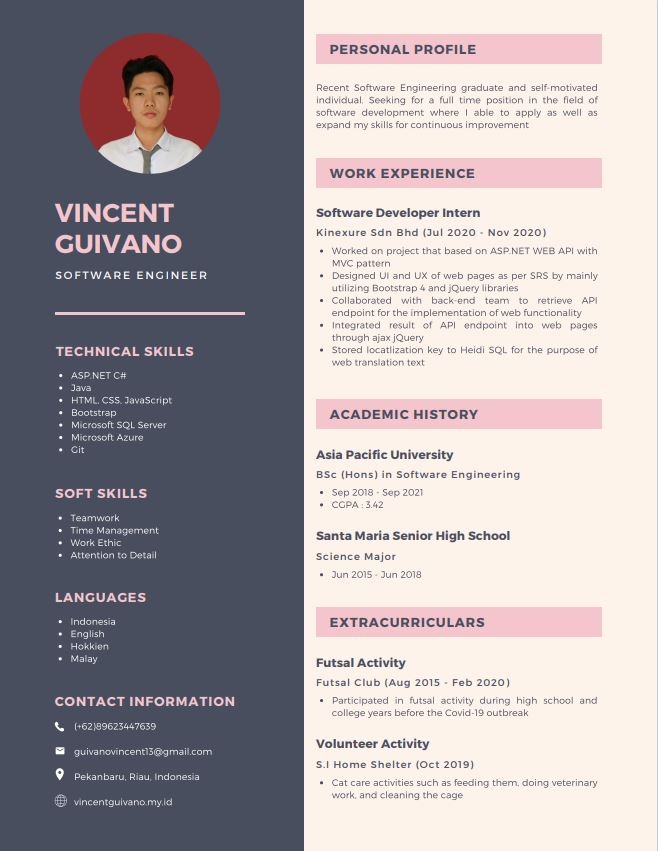
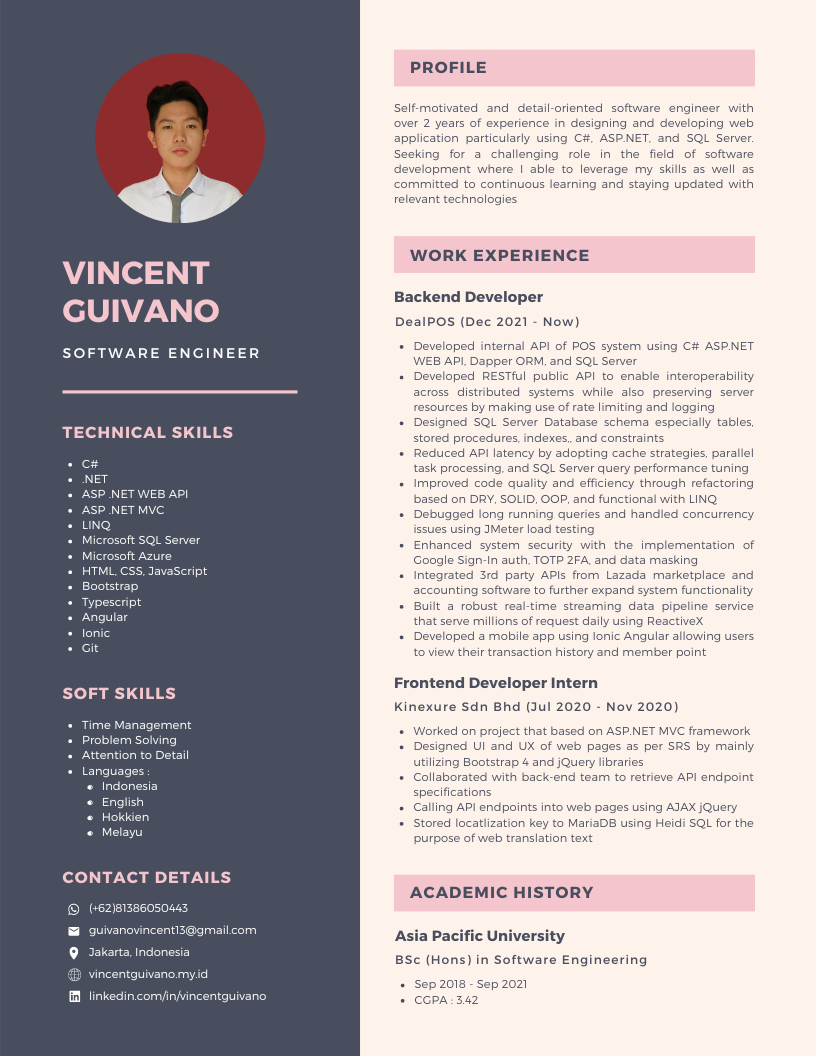
2024 CV updated

diff --git a/index.html b/index.html
@@ -161,7 +161,7 @@
               </div>             
               <div class="col-xl-8 col-9 d-flex flex-column padding-0">
                 <h5 class="display-3">Address</h5>
-                <h6 class=" display-6">Indonesia, Riau</h6>
+                <h6 class=" display-6">Indonesia, Jakarta</h6>
               </div>
             </div>
             <div class="row gx-lg-5 gx-4 text-white d-flex w-100 py-4">
@@ -183,7 +183,7 @@
               </div>             
               <div class="col-xl-8 col-9 d-flex flex-column padding-0">
                 <h5 class="display-3">Phone</h5>
-                <h6 class=" display-6">012345678</h6>
+                <h6 class=" display-6">+6281386050443</h6>
               </div>
             </div>        
            </div>
